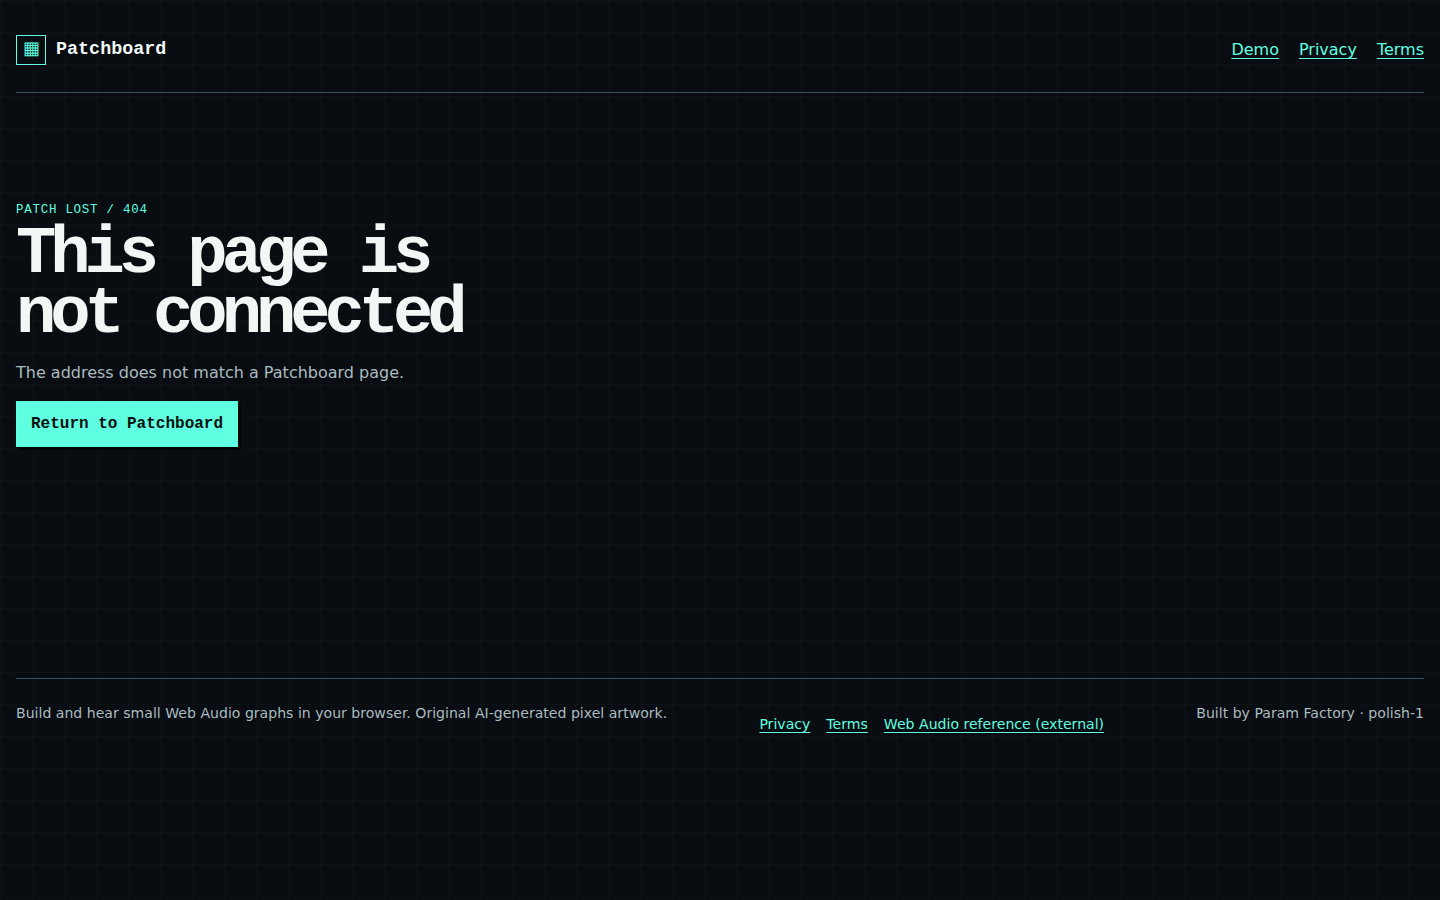
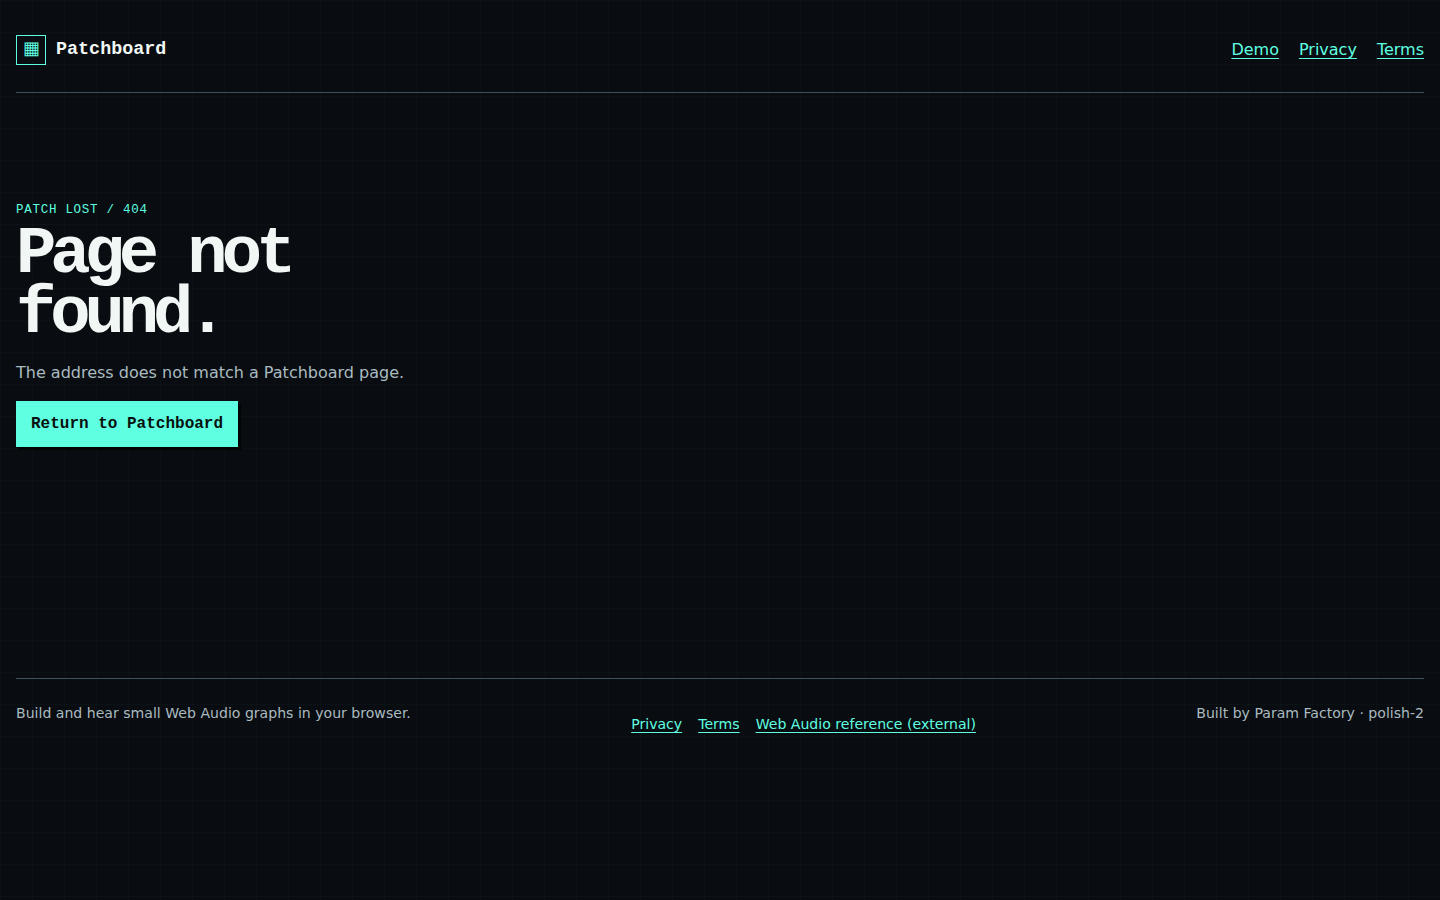
docs: record deployed polish evidence

Changed region(s): [[0.0, 0.2489, 0.3438, 0.3733], [0.2812, 0.7778, 0.7812, 0.8089]]

diff --git a/.factory/handoff.md b/.factory/handoff.md
@@ -30,8 +30,18 @@ npm run preview
 
 Open `http://127.0.0.1:4173/?demo=1` for the isolated sample. See `.factory/demo.md` for reset and storage behavior.
 
-## Deployment and follow-up
+## Deployment and live re-check
 
-Push `main` to trigger the configured static deployment. After propagation, run `npm run verify:live` and cold-check `/`, `/?demo=1`, `/privacy`, `/terms`, and an unknown URL. The live result and deployed commit are appended below after that check.
+Deployed with `/opt/fleet/lib/deploy-static.sh audio-graph-sketchpad dist`. Azure deployment `5745589b-b5e0-461e-bf17-328e4ea91c45` completed successfully to the existing Static Web App and custom domain.
+
+`npm run verify:live` passed against `https://audio-graph-sketchpad.sociobot.in` after deployment:
+
+```json
+{"routes":5,"unknownStatus":404,"axeSeriousCritical":0,"consoleErrors":0,"externalRequests":0,"mobileOverflow":false,"offlineReload":true}
+```
+
+Fresh cold live contexts rechecked `/`, `/?demo=1`, `/demo`, `/privacy`, `/terms`, `/404.html`, and an unknown URL. The live demo contains the new direct workbench rather than the repeated hero; reset/exit isolation, 404 wording, route focus/scroll, metadata, accessibility, privacy requests, and offline reload all passed. Live captures are `.factory/evidence/live-cold/demo-desktop.png`, `.factory/evidence/live-cold/demo-mobile.png`, and `.factory/evidence/live-cold/404-live.png`.
+
+All 16 individual commands from `.factory/claims.json` were also run separately from the clean clone; `/tmp/patchboard-individual-claims.log` records 16 commands and 16 one-test passes.
 
 Known product gaps: none. No runtime AI feature is appropriate; code export is deterministic and tested.

diff --git a/.factory/polish-2.md b/.factory/polish-2.md
@@ -1,6 +1,6 @@
 # Polish round 2 — zero-finding repair map
 
-Candidate repaired from `a612f02c3d16504346749957f25c087288bd0463` using every review finding. Local evidence is in `.factory/evidence/polish-2-demo-mobile.png`, `.factory/evidence/polish-2-root-desktop.png`, and `.factory/evidence/polish-2-404.png`. The final deployed URL check is recorded in the handoff.
+Candidate repaired from `a612f02c3d16504346749957f25c087288bd0463` using every review finding. Local evidence is in `.factory/evidence/polish-2-demo-mobile.png`, `.factory/evidence/polish-2-root-desktop.png`, and `.factory/evidence/polish-2-404.png`. Cold live evidence is `.factory/evidence/live-cold/demo-desktop.png`, `.factory/evidence/live-cold/demo-mobile.png`, and `.factory/evidence/live-cold/404-live.png` at `https://audio-graph-sketchpad.sociobot.in`.
 
 | Finding | Change made | Evidence |
 | --- | --- | --- |
@@ -62,3 +62,5 @@ Candidate repaired from `a612f02c3d16504346749957f25c087288bd0463` using every r
 | F-2-13 | Replaced the metaphor H1 with “Page not found.” | 404 browser test; `polish-2-404.png`. |
 
 No AI runtime feature was added: deterministic graph-to-code export is the useful, testable handoff for this local browser tool.
+
+Every row above was rechecked in a fresh live browser context after Azure deployment. `npm run verify:live` passed five routes, HTTP 404, zero serious/critical axe findings, zero console errors, zero external requests, no mobile overflow, and an offline demo reload.
